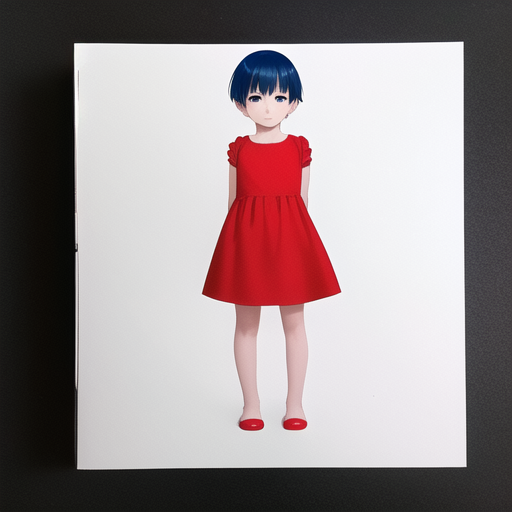
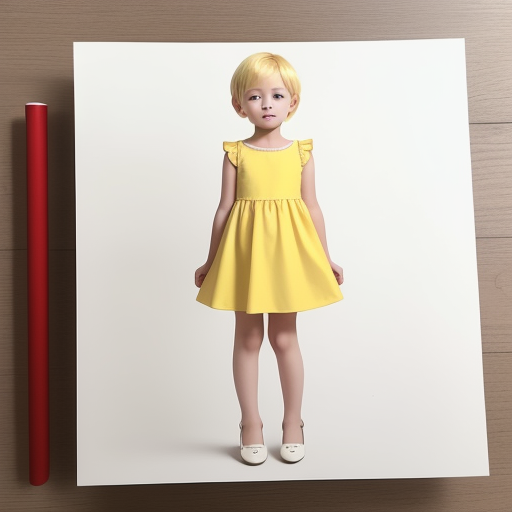
mi版测试通过，python的保存不行，等java

diff --git a/src/image_engine.py b/src/image_engine.py
@@ -37,10 +37,9 @@ def run_comfyui_task(workflow_json, output_name, task_name="未知任务"):
             time.sleep(1)
 
 def generate_full_story_page(child_features, story_action, story_scene):
-    if not os.path.exists("temp_base.png"):
-        with open("workflow_stage1_base.json", "r", encoding="utf-8") as f: wf1 = json.load(f)
-        wf1["3"]["inputs"]["text"] += f"1 child, {child_features}, full body, white background, picture book style"
-        run_comfyui_task(wf1, "temp_base.png", "阶段1:定妆照")
+    with open("workflow_stage1_base.json", "r", encoding="utf-8") as f: wf1 = json.load(f)
+    wf1["3"]["inputs"]["text"] += f"1 child, {child_features}, full body, white background, picture book style"
+    run_comfyui_task(wf1, "temp_base.png", "阶段1:定妆照")
     
     with open("workflow_stage2_pose.json", "r", encoding="utf-8") as f: wf2 = json.load(f)
     wf2["1"]["inputs"]["text"] += f"a person {story_action}, full body, simple background"
@@ -50,7 +49,7 @@ def generate_full_story_page(child_features, story_action, story_scene):
     shutil.copy("temp_pose.png", os.path.join(COMFYUI_INPUT_DIR, "input_pose.png"))
     
     with open("workflow_stage3_final.json", "r", encoding="utf-8") as f: wf3 = json.load(f)
-    wf3["6"]["inputs"]["text"] += f"child, {story_scene}, {child_features}, high quality, picture book"
+    wf3["6"]["inputs"]["text"] += f"child, {story_scene}, high quality, picture book"
     wf3["8"]["inputs"]["image"] = "input_base.png" 
     wf3["14"]["inputs"]["image"] = "input_pose.png" 
     

diff --git a/src/config.py b/src/config.py
@@ -7,5 +7,5 @@ LLM_BASE_URL = "https://api.deepseek.com"
 LLM_MODEL_NAME = "deepseek-reasoner" 
 
 # ================= ComfyUI 配置 =================
-COMFYUI_SERVER_ADDRESS = "http://127.0.0.1:8088"
+COMFYUI_SERVER_ADDRESS = "http://127.0.0.1:8188"
 COMFYUI_INPUT_DIR = r"C:/Cworkspace/MI10-Preview/ComfyUI/input" # ⭐ 
